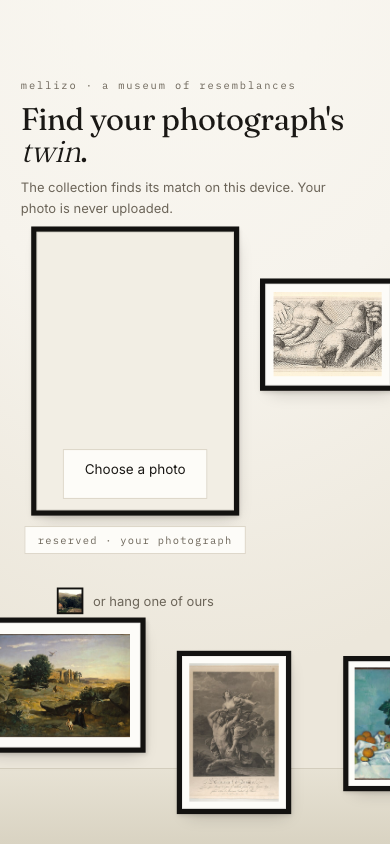
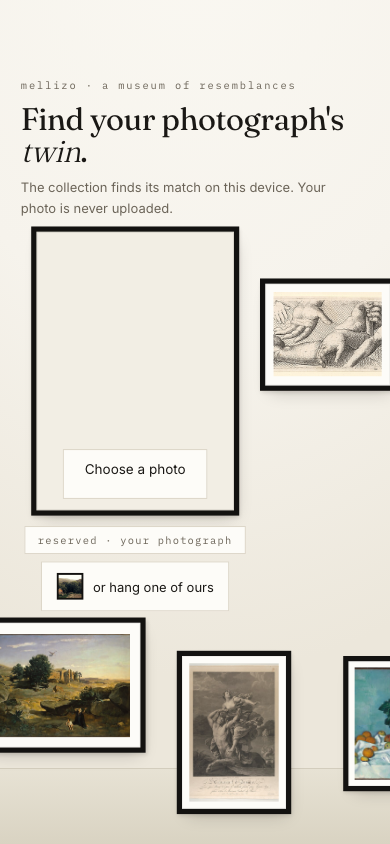
Design round 6: strip dedupe by image+title stem, status kept through result fade, clearer load copy, mobile sample pill

Changed region(s): [[0.0923, 0.6469, 0.5846, 0.7393]]

diff --git a/src/App.tsx b/src/App.tsx
@@ -9,10 +9,12 @@ type Photo = { url: string; w: number; h: number };
 
 const haptics = new WebHaptics();
 
+const stem = (t: string) => t.toLowerCase().replace(/\s*\(.*$/, "").trim();
+
 const STATUS = {
   reading: "Reading your photograph…",
-  warming: "Fetching the eyes · a one-time download",
-  preparing: "Starting the eyes…",
+  warming: "Downloading the matching model · a one-time fetch",
+  preparing: "Preparing photo matching…",
   embedding: "Studying its features…",
   searching: "Walking the galleries…",
 };
@@ -113,12 +115,13 @@ export default function App() {
       setMatchAr(ar);
       setMatch(matches[0]);
       setWinnerId(matches[0].id);
-      // skip near-duplicates so the strip reads as real alternatives
-      const seen = new Set([matches[0].title.toLowerCase().trim()]);
+      // skip near-duplicates so the strip reads as real alternatives:
+      // same image file or same title stem (editions, copies) count as one
+      const seen = new Set([matches[0].img, stem(matches[0].title)]);
       setRunners(matches.slice(1).filter(m => {
-        const k = m.title.toLowerCase().trim();
-        if (seen.has(k)) return false;
-        seen.add(k);
+        const k = stem(m.title);
+        if (seen.has(m.img) || seen.has(k)) return false;
+        seen.add(m.img); seen.add(k);
         return true;
       }));
       setLimited(limited);
@@ -179,7 +182,7 @@ export default function App() {
       setMatchAr(t.naturalWidth ? t.naturalHeight / t.naturalWidth : 4 / 3);
       setMatch(prev => {
         if (!prev) return r;
-        setRunners(rs => [prev, ...rs.filter(x => x.id !== r.id)]);
+        setRunners(rs => [prev, ...rs.filter(x => x.id !== r.id && x.id !== prev.id)]);
         return r;
       });
       haptics.trigger("light");
@@ -358,7 +361,7 @@ export default function App() {
             {phase === "error" ? "That one slipped off the wall." : <>Find your photograph's <em>twin</em>.</>}
           </h1>
           <p className={`sub${phase === "busy" ? " status" : ""}`} aria-live="polite" style={mobile ? { fontSize: 12.5, maxWidth: 300, marginTop: 10 } : undefined}>
-            {phase === "busy"
+            {phase === "busy" || phase === "result"
               ? status === STATUS.warming && dlDone
                 ? STATUS.preparing
                 : `${status}${modelPct > 0 && modelPct < 1 ? ` ${Math.round(modelPct * 100)}%` : ""}`
@@ -382,7 +385,7 @@ export default function App() {
 
         {/* on mobile the sample link hangs under the reserved frame's label */}
         {mobile && phase === "idle" && (
-          <button className="retry sample-under" style={{ left: resBase.x + resBase.w / 2, top: resBase.y + resBase.h + 56 }}
+          <button className="retry sample-under" style={{ left: resBase.x + resBase.w / 2, top: resBase.y + resBase.h + 44 }}
             onClick={useSample}><img className="sample-thumb" src="/sample.jpg" alt="" />or hang one of ours</button>
         )}
 

diff --git a/src/styles.css b/src/styles.css
@@ -67,8 +67,8 @@ body {
 .reserved .mat img { object-fit: contain; }
 .frame .accn {
   position: absolute; top: calc(100% + 7px); left: 50%; transform: translateX(-50%);
-  font-family: "IBM Plex Mono", monospace; font-size: 11.5px; letter-spacing: .08em;
-  color: #7a7263; white-space: nowrap; opacity: 0; transition: opacity .25s;
+  font-family: "IBM Plex Mono", monospace; font-size: 11.5px; letter-spacing: .04em;
+  color: #5f584a; white-space: nowrap; opacity: 0; transition: opacity .25s;
 }
 .frame.pair .accn, .frame.twin .accn { opacity: 1; }
 @media (hover: hover) { .frame:hover .accn { opacity: 1; } }
@@ -119,7 +119,7 @@ button.frame:disabled { cursor: default; }
 }
 
 /* ---------- vinyl ---------- */
-.vinyl { position: absolute; transition: opacity .6s ease; }
+.vinyl { position: absolute; transition: opacity .45s ease; }
 .vinyl.off { opacity: 0; pointer-events: none; }
 .vinyl h1 { font-family: "Fraunces", serif; font-weight: 400; font-size: 44px; line-height: 1.04; letter-spacing: -0.015em; color: var(--ink); }
 .vinyl h1 em { font-style: italic; font-weight: 300; }
@@ -150,8 +150,9 @@ button.frame:disabled { cursor: default; }
 .vinyl .act .retry:focus-visible { outline: 2px solid var(--red); outline-offset: 3px; }
 .sample-under {
   position: absolute; transform: translateX(-50%);
-  appearance: none; background: none; border: 0; font: inherit; cursor: pointer;
-  font-size: 12.5px; color: var(--ink-soft); padding: 13px 6px;
+  appearance: none; font: inherit; cursor: pointer;
+  font-size: 12.5px; color: var(--ink); padding: 10px 14px;
+  background: var(--label); border: 1px solid var(--hairline);
 }
 @media (hover: hover) { .sample-under:hover { color: var(--red); } }
 .sample-under:active { color: var(--red); }
@@ -227,8 +228,8 @@ button.frame:disabled { cursor: default; }
 /* ---------- near-miss strip ---------- */
 .strip { margin-top: 16px; }
 .strip .striplabel {
-  font-family: "IBM Plex Mono", monospace; font-size: 10px; letter-spacing: .1em;
-  color: var(--ink-soft); margin-bottom: 10px;
+  font-family: "IBM Plex Mono", monospace; font-size: 10px; letter-spacing: .05em;
+  color: #5f584a; margin-bottom: 10px;
 }
 .strip .minis { display: flex; gap: 14px; justify-content: center; }
 .cap-fixed {
